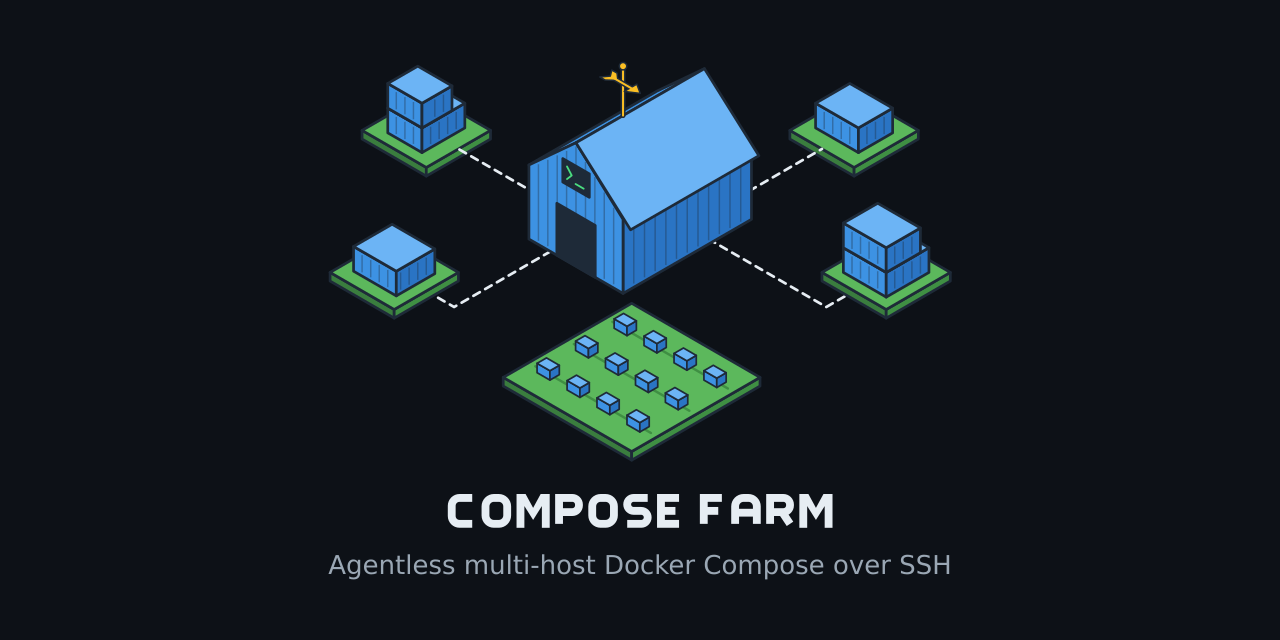
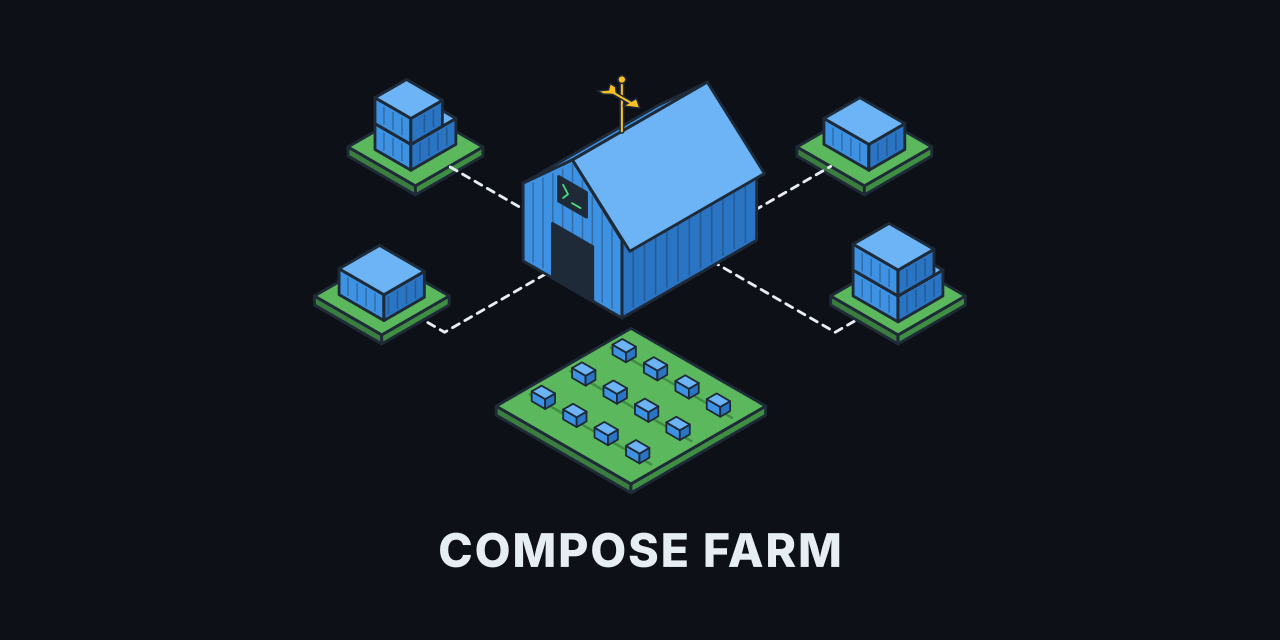
docs: set wordmark in Inter ExtraBold, drop social preview tagline
The hand-built monoline letters mixed rounded (C, O, S) and square
(E, F, P) corners and a heavier filled M, so they read as different
sizes. Replace them with Inter ExtraBold outlines (the docs font, SIL
OFL), kerned with 4% tracking and baked into the generator so it stays
offline and font-independent.

Remove the tagline from the social preview card.

Changed region(s): [[0.25, 0.0938, 0.75, 0.9062], [0.25, 0.3438, 0.4062, 0.5312]]

diff --git a/docs/logo/generate.py b/docs/logo/generate.py
@@ -243,99 +243,75 @@ def scene(*, animated: bool) -> list[str]:
 
 
 # --- wordmark -------------------------------------------------------------
-# Monoline letters on centerlines (stroke 13), cap height 56 including stroke.
-T, B, MID, SW = 6.5, 49.5, 28.0, 13.0
+# "COMPOSE FARM" set in Inter ExtraBold (SIL Open Font License) with its own
+# kerning plus 4% tracking, converted to outlines so it renders identically
+# without the font installed. Cap height is 56.
+WORDMARK_WIDTH = 668.4
+WORDMARK_HEIGHT = 56.0
+WORDMARK = (
+    "M29.6 56.8Q22 56.8 16 53.4Q10 50.1 6.6 43.6Q3.1 37.2 3.1 28Q3.1 18.8 6.6 12.4Q10.1 5.9 "
+    "16.1 2.6Q22.1 -0.8 29.6 -0.8Q34.6 -0.8 38.8 0.6Q43.1 2 46.3 4.6Q49.6 7.3 51.7 11.1Q53.7 "
+    "14.9 54.3 19.8H40.9Q40.6 17.7 39.7 16.1Q38.7 14.4 37.3 13.3Q35.9 12.1 34.1 11.5Q32.2 "
+    "10.9 29.9 10.9Q25.8 10.9 22.8 12.9Q19.8 15 18.2 18.8Q16.6 22.6 16.6 28Q16.6 33.6 18.3 "
+    "37.5Q19.9 41.3 22.9 43.2Q25.8 45.1 29.8 45.1Q32.1 45.1 34 44.5Q35.9 43.9 37.3 42.7Q38.7 "
+    "41.6 39.7 39.9Q40.6 38.3 40.9 36.2H54.3Q54 40 52.2 43.6Q50.4 47.2 47.3 50.2Q44.2 53.2 "
+    "39.7 55Q35.3 56.8 29.6 56.8Z M90.1 56.8Q82.5 56.8 76.5 53.4Q70.5 50.1 66.9 43.6Q63.4 "
+    "37.2 63.4 28Q63.4 18.8 66.9 12.4Q70.5 5.9 76.5 2.6Q82.5 -0.8 90.1 -0.8Q97.6 -0.8 103.6 "
+    "2.6Q109.7 5.9 113.2 12.4Q116.7 18.8 116.7 28Q116.7 37.2 113.2 43.7Q109.7 50.1 103.6 "
+    "53.4Q97.6 56.8 90.1 56.8ZM90.1 45.1Q94.1 45.1 97.1 43.1Q100 41.2 101.6 37.4Q103.2 33.6 "
+    "103.2 28Q103.2 22.5 101.6 18.6Q100 14.8 97.1 12.9Q94.1 10.9 90.1 10.9Q86 10.9 83.1 "
+    "12.9Q80.1 14.8 78.5 18.7Q77 22.5 77 28Q77 33.6 78.5 37.4Q80.1 41.2 83.1 43.1Q86 45.1 "
+    "90.1 45.1Z M127.3 56V0H147.9L155.1 21.8Q155.7 23.8 156.4 27.1Q157.2 30.4 158 34.1Q158.8 "
+    "37.9 159.4 41.4Q160.1 44.9 160.5 47.4H158Q158.4 44.9 159.1 41.4Q159.7 37.9 160.5 "
+    "34.1Q161.3 30.4 162 27.1Q162.8 23.8 163.4 21.8L170.4 0H191.1V56H177.8V31.9Q177.8 30 "
+    "177.9 27Q178 24.1 178 20.6Q178.1 17.2 178.2 13.7Q178.3 10.1 178.3 7.1H179.1Q178.4 10.4 "
+    "177.6 14Q176.7 17.6 175.8 21Q174.9 24.4 174.1 27.2Q173.3 30 172.7 31.9L164.8 "
+    "56H153.7L145.6 31.9Q145 30 144.2 27.2Q143.4 24.4 142.5 21Q141.6 17.6 140.7 14.1Q139.8 "
+    "10.5 139 7.1H140Q140 10.1 140.1 13.6Q140.2 17.1 140.3 20.6Q140.4 24.1 140.5 27Q140.6 30 "
+    "140.6 31.9V56Z M202.9 56V0H225.9Q232.2 0 236.8 2.4Q241.4 4.9 243.8 9.2Q246.3 13.6 246.3 "
+    "19.4Q246.3 25.1 243.8 29.4Q241.2 33.7 236.6 36.1Q231.9 38.5 225.5 "
+    "38.5H211.3V28H223.1Q226.2 28 228.3 26.9Q230.4 25.9 231.5 23.9Q232.5 21.9 232.5 "
+    "19.4Q232.5 16.7 231.5 14.8Q230.4 12.9 228.3 11.8Q226.2 10.7 223.1 10.7H216.2V56Z M281.6 "
+    "56.8Q274 56.8 268 53.4Q262 50.1 258.5 43.6Q254.9 37.2 254.9 28Q254.9 18.8 258.5 12.4Q262 "
+    "5.9 268 2.6Q274 -0.8 281.6 -0.8Q289.1 -0.8 295.2 2.6Q301.2 5.9 304.7 12.4Q308.2 18.8 "
+    "308.2 28Q308.2 37.2 304.7 43.7Q301.2 50.1 295.2 53.4Q289.1 56.8 281.6 56.8ZM281.6 "
+    "45.1Q285.7 45.1 288.6 43.1Q291.5 41.2 293.1 37.4Q294.7 33.6 294.7 28Q294.7 22.5 293.1 "
+    "18.6Q291.5 14.8 288.6 12.9Q285.7 10.9 281.6 10.9Q277.5 10.9 274.6 12.9Q271.6 14.8 270.1 "
+    "18.7Q268.5 22.5 268.5 28Q268.5 33.6 270.1 37.4Q271.6 41.2 274.6 43.1Q277.5 45.1 281.6 "
+    "45.1Z M340.4 56.8Q333.4 56.8 328.2 54.6Q323 52.5 320.1 48.3Q317.2 44 317.1 "
+    "37.5H329.9Q330 40.2 331.3 42.1Q332.6 43.9 334.9 44.8Q337.2 45.7 340.2 45.7Q343 45.7 345 "
+    "45Q347 44.2 348 42.9Q349.1 41.5 349.1 39.7Q349.1 38.1 348.1 37Q347.1 35.9 345.1 35Q343.1 "
+    "34.1 340 33.4L334.1 32.1Q326.9 30.4 322.7 26.6Q318.6 22.9 318.6 16.6Q318.6 11.4 321.4 "
+    "7.5Q324.2 3.6 329.1 1.4Q334 -0.8 340.4 -0.8Q346.9 -0.8 351.7 1.4Q356.4 3.6 359.1 "
+    "7.6Q361.7 11.5 361.8 16.7H349Q348.8 13.6 346.5 12Q344.3 10.3 340.3 10.3Q337.7 10.3 335.9 "
+    "11Q334.1 11.7 333.2 12.9Q332.3 14.1 332.3 15.7Q332.3 17.4 333.3 18.6Q334.3 19.8 336.2 "
+    "20.6Q338.1 21.3 340.6 21.9L345.4 23Q349.5 23.9 352.7 25.4Q355.8 26.9 358 28.9Q360.2 31 "
+    "361.4 33.7Q362.5 36.4 362.5 39.8Q362.5 45.1 359.9 48.9Q357.2 52.7 352.3 54.7Q347.3 56.8 "
+    "340.4 56.8Z M372.7 56V0H411.5V10.8H385.9V22.4H409.5V33H385.9V45.2H411.5V56Z M442.6 "
+    "56V0H480.7V10.8H455.9V25H478.2V35.6H455.9V56Z M481.2 56 499.8 0H517.6L536.9 56H522L514.2 "
+    "31.5Q512.3 25.4 510.6 18.5Q508.8 11.6 507.1 4.2H510Q508.3 11.7 506.8 18.5Q505.2 25.4 "
+    "503.4 31.5L495.9 56ZM493.9 44.1V33.9H524.2V44.1Z M546.1 56V0H569Q575.3 0 579.9 2.3Q584.5 "
+    "4.5 586.9 8.7Q589.4 12.9 589.4 18.6Q589.4 24.4 586.9 28.4Q584.4 32.5 579.7 34.6Q575 36.7 "
+    "568.6 36.7H554V26.2H566.2Q569.3 26.2 571.4 25.4Q573.5 24.6 574.6 22.9Q575.6 21.2 575.6 "
+    "18.6Q575.6 16 574.6 14.2Q573.5 12.5 571.4 11.6Q569.3 10.7 566.2 10.7H559.3V56ZM576.8 56 "
+    "563.2 30.4H577.4L591.4 56Z M600.1 56V0H620.8L627.9 21.8Q628.5 23.8 629.3 27.1Q630.1 30.4 "
+    "630.9 34.1Q631.6 37.9 632.3 41.4Q633 44.9 633.4 47.4H630.9Q631.3 44.9 631.9 41.4Q632.6 "
+    "37.9 633.3 34.1Q634.1 30.4 634.9 27.1Q635.7 23.8 636.3 21.8L643.3 "
+    "0H664V56H650.7V31.9Q650.7 30 650.7 27Q650.8 24.1 650.9 20.6Q651 17.2 651.1 13.7Q651.2 "
+    "10.1 651.2 7.1H652Q651.3 10.4 650.4 14Q649.5 17.6 648.6 21Q647.8 24.4 647 27.2Q646.1 30 "
+    "645.6 31.9L637.6 56H626.5L618.4 31.9Q617.9 30 617.1 27.2Q616.2 24.4 615.3 21Q614.4 17.6 "
+    "613.5 14.1Q612.6 10.5 611.9 7.1H612.8Q612.9 10.1 613 13.6Q613 17.1 613.1 20.6Q613.2 24.1 "
+    "613.3 27Q613.4 30 613.4 31.9V56Z"
+)
 
 
-def _c(x: float, w: float) -> str:
-    lx, rx, k = x + 6.5, x + 6.5 + w, 13
-    return f"M{rx},{T} H{lx + k} A{k},{k} 0 0 0 {lx},{T + k} V{B - k} A{k},{k} 0 0 0 {lx + k},{B} H{rx}"
-
-
-def _o(x: float, w: float) -> str:
-    lx, rx, k = x + 6.5, x + 6.5 + w, 14
+def wordmark(x: float, y: float, width: float) -> str:
+    """The wordmark scaled to `width`, with its top-left corner at (x, y)."""
+    scale = width / WORDMARK_WIDTH
     return (
-        f"M{lx + k},{T} H{rx - k} A{k},{k} 0 0 1 {rx},{T + k} V{B - k} A{k},{k} 0 0 1 {rx - k},{B} "
-        f"H{lx + k} A{k},{k} 0 0 1 {lx},{B - k} V{T + k} A{k},{k} 0 0 1 {lx + k},{T} Z"
+        f'<path class="wfill" transform="translate({x:.1f} {y:.1f}) scale({scale:.4f})" '
+        f'd="{WORDMARK}"/>'
     )
-
-
-def _p(x: float, w: float) -> str:
-    lx, rx, k, y = x + 6.5, x + 6.5 + w, 11, 30
-    return f"M{lx},{B} V{T} H{rx - k} A{k},{k} 0 0 1 {rx},{T + k} V{y - k} A{k},{k} 0 0 1 {rx - k},{y} H{lx}"
-
-
-def _r(x: float, w: float) -> str:
-    rx = x + 6.5 + w
-    return _p(x, w) + f" M{rx - 13},30 L{rx},{B}"
-
-
-def _s(x: float, w: float) -> str:
-    lx, rx, k = x + 6.5, x + 6.5 + w, 10.75
-    return (
-        f"M{rx},{T} H{lx + k} A{k},{k} 0 0 0 {lx + k},{MID} H{rx - k} "
-        f"A{k},{k} 0 0 1 {rx - k},{B} H{lx}"
-    )
-
-
-def _e(x: float, w: float) -> str:
-    lx, rx = x + 6.5, x + 6.5 + w
-    return f"M{rx},{T} H{lx} V{B} H{rx} M{lx},{MID} H{rx - 6}"
-
-
-def _f(x: float, w: float) -> str:
-    lx, rx = x + 6.5, x + 6.5 + w
-    return f"M{rx},{T} H{lx} V{B} M{lx},{MID} H{rx - 6}"
-
-
-def _a(x: float, w: float) -> str:
-    lx, rx, k = x + 6.5, x + 6.5 + w, 14
-    return (
-        f"M{lx},{B} V{T + k} A{k},{k} 0 0 1 {lx + k},{T} H{rx - k} A{k},{k} 0 0 1 {rx},{T + k} "
-        f"V{B} M{lx},{MID + 3} H{rx}"
-    )
-
-
-def _m(x: float, w: float) -> str:
-    """Filled outline, so the pointed joins don't overshoot the cap height."""
-    x0, x1 = x, x + w + SW
-    xm = (x0 + x1) / 2
-    pts = [
-        (x0, 56),
-        (x0, 0),
-        (x0 + SW + 2, 0),
-        (xm, 23),
-        (x1 - SW - 2, 0),
-        (x1, 0),
-        (x1, 56),
-        (x1 - SW, 56),
-        (x1 - SW, 20),
-        (xm, 43),
-        (x0 + SW, 20),
-        (x0 + SW, 56),
-    ]
-    return "F" + " ".join(f"{a:g},{b:g}" for a, b in pts)
-
-
-LETTERS = [(_c, 34), (_o, 36), (_m, 42), (_p, 33), (_o, 36), (_s, 34), (_e, 30), None,
-           (_f, 30), (_a, 36), (_r, 33), (_m, 42)]  # fmt: skip
-
-
-def wordmark() -> tuple[list[str], float]:
-    """Paths for "COMPOSE FARM" and the total width (height is 56)."""
-    gap, space, x, out = 9.0, 28.0, 0.0, []
-    for item in LETTERS:
-        if item is None:
-            x += space - gap
-            continue
-        fn, w = item
-        d = fn(x, w)
-        if d.startswith("F"):
-            out.append(f'<polygon class="wfill" points="{d[1:]}"/>')
-        else:
-            out.append(f'<path d="{d}"/>')
-        x += w + SW + gap
-    return out, x - gap
 
 
 # --- styles ---------------------------------------------------------------
@@ -381,7 +357,6 @@ def styles(*, animated: bool, dark: str) -> str:
         "stroke-linejoin:round;vector-effect:non-scaling-stroke}",
         f".vfill{{fill:{AMBER};stroke:{INK};stroke-width:1.5;stroke-linejoin:round;"
         "vector-effect:non-scaling-stroke}",
-        f".word{{fill:none;stroke:{INK};stroke-width:13;stroke-linejoin:miter}}",
         f".wfill{{fill:{INK};stroke:none}}",
         ".pulse{display:none}",
     ]
@@ -405,7 +380,7 @@ def styles(*, animated: bool, dark: str) -> str:
             "@media (prefers-reduced-motion:reduce){.spin,.crop,.migrant,.cursor{animation:none}"
             ".pulse{display:none}}",
         ]
-    on_dark = f".dash,.word{{stroke:{LIGHT}}}.wfill{{fill:{LIGHT}}}"
+    on_dark = f".dash{{stroke:{LIGHT}}}.wfill{{fill:{LIGHT}}}"
     if dark == "media":
         css.append(f"@media (prefers-color-scheme:dark){{{on_dark}}}")
     elif dark == "force":
@@ -437,15 +412,9 @@ def logo(*, with_wordmark: bool) -> str:
     body = scene(animated=True)
     x, y, w, h = bounds(pad=10)
     if with_wordmark:
-        letters, width = wordmark()
-        scale = (w - 20) / width
-        top = y + h + 6
-        body += [
-            f'<g class="word" transform="translate({x + 10:.1f} {top:.1f}) scale({scale:.3f})">',
-            *letters,
-            "</g>",
-        ]
-        h += 6 + 56 * scale + 10
+        width = w - 40
+        body.append(wordmark(x + 20, y + h + 4, width))
+        h += 4 + WORDMARK_HEIGHT * width / WORDMARK_WIDTH + 12
     return svg(body, (x, y, w, h), styles(animated=True, dark="media"))
 
 
@@ -463,29 +432,22 @@ def icon() -> str:
 
 
 def social_preview() -> str:
-    """1280x640 card with the farm, wordmark, and tagline on a dark background."""
+    """1280x640 card with the farm and wordmark on a dark background."""
     _bbox.clear()
     farm = scene(animated=False)
     x, y, w, h = bounds(pad=0)
-    letters, width = wordmark()
-    scale = 0.62 * w / width
-    farm_scale = 400 / h
-    tx = 640 - (x + w / 2) * farm_scale
-    ty = 60 - y * farm_scale
-    word_x = 640 - width * scale * farm_scale / 2
-    word_y = 60 + h * farm_scale + 34
+    farm_scale = 420 / h
+    word_w = 0.62 * w * farm_scale
+    word_h = WORDMARK_HEIGHT * word_w / WORDMARK_WIDTH
+    gap = 40
+    top = (640 - h * farm_scale - gap - word_h) / 2
     body = [
         '<rect width="1280" height="640" fill="#0d1117"/>',
-        f'<g transform="translate({tx:.1f} {ty:.1f}) scale({farm_scale:.3f})">',
+        f'<g transform="translate({640 - (x + w / 2) * farm_scale:.1f} {top - y * farm_scale:.1f}) '
+        f'scale({farm_scale:.3f})">',
         *farm,
         "</g>",
-        f'<g class="word" transform="translate({word_x:.1f} {word_y:.1f}) '
-        f'scale({scale * farm_scale:.3f})">',
-        *letters,
-        "</g>",
-        f'<text x="640" y="{word_y + 56 * scale * farm_scale + 46:.0f}" text-anchor="middle" '
-        f'fill="#9aa7b4" font-family="Inter, \'DejaVu Sans\', sans-serif" font-size="26">'
-        "Agentless multi-host Docker Compose over SSH</text>",
+        wordmark(640 - word_w / 2, top + h * farm_scale + gap, word_w),
     ]
     return svg(body, (0, 0, 1280, 640), styles(animated=False, dark="force"))
 
